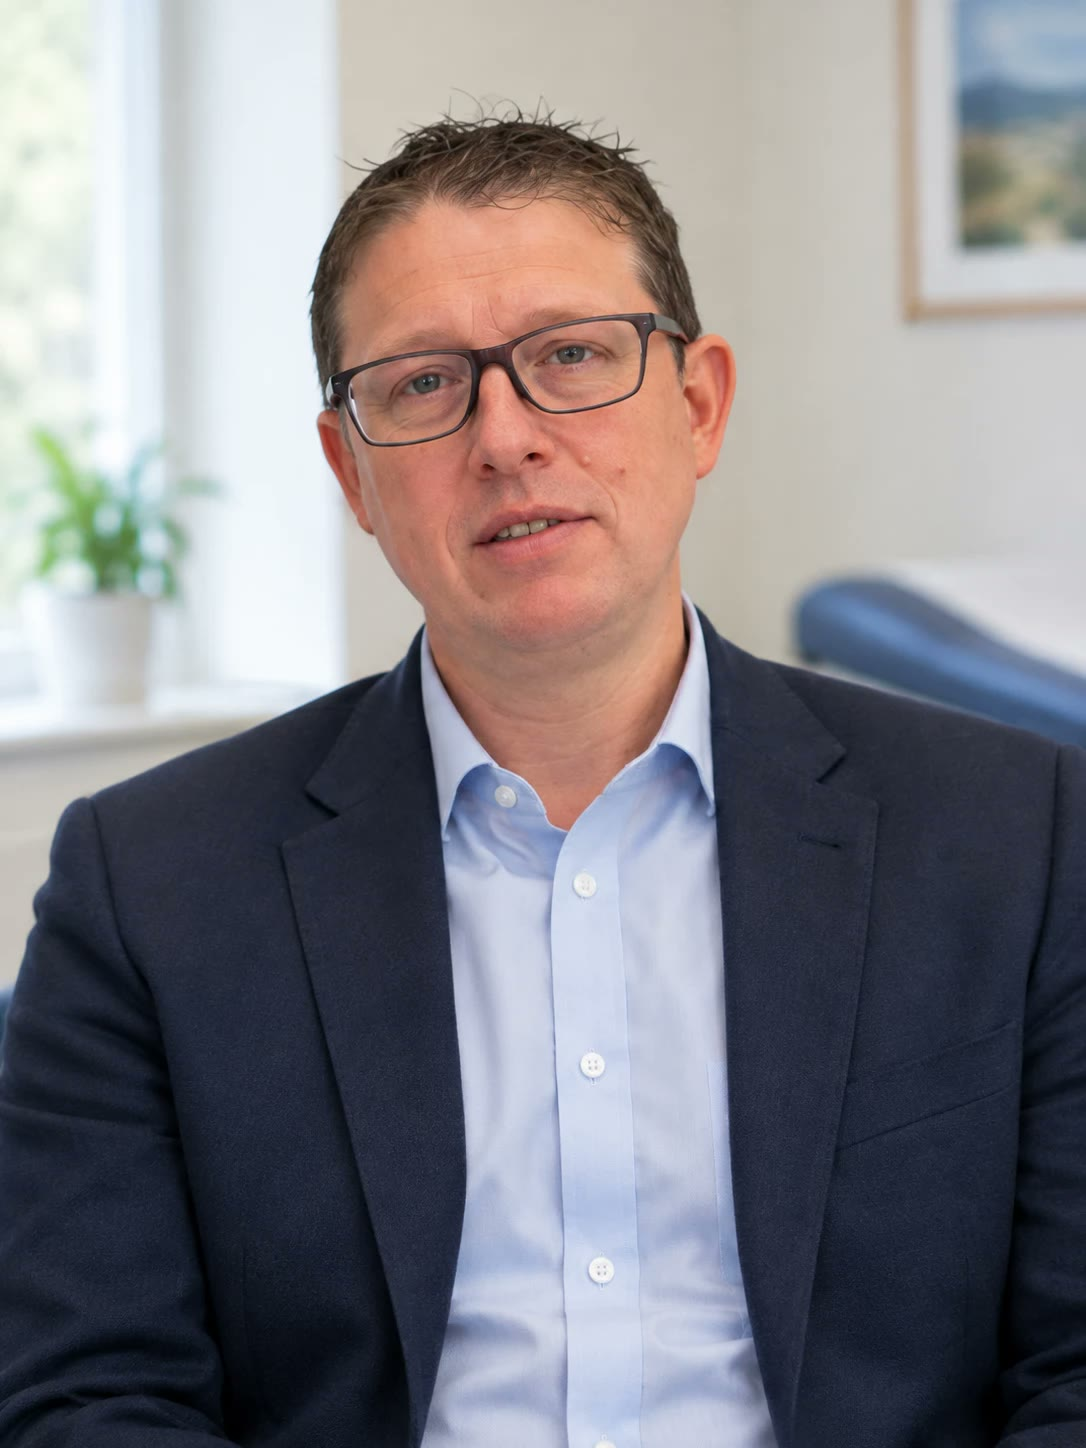
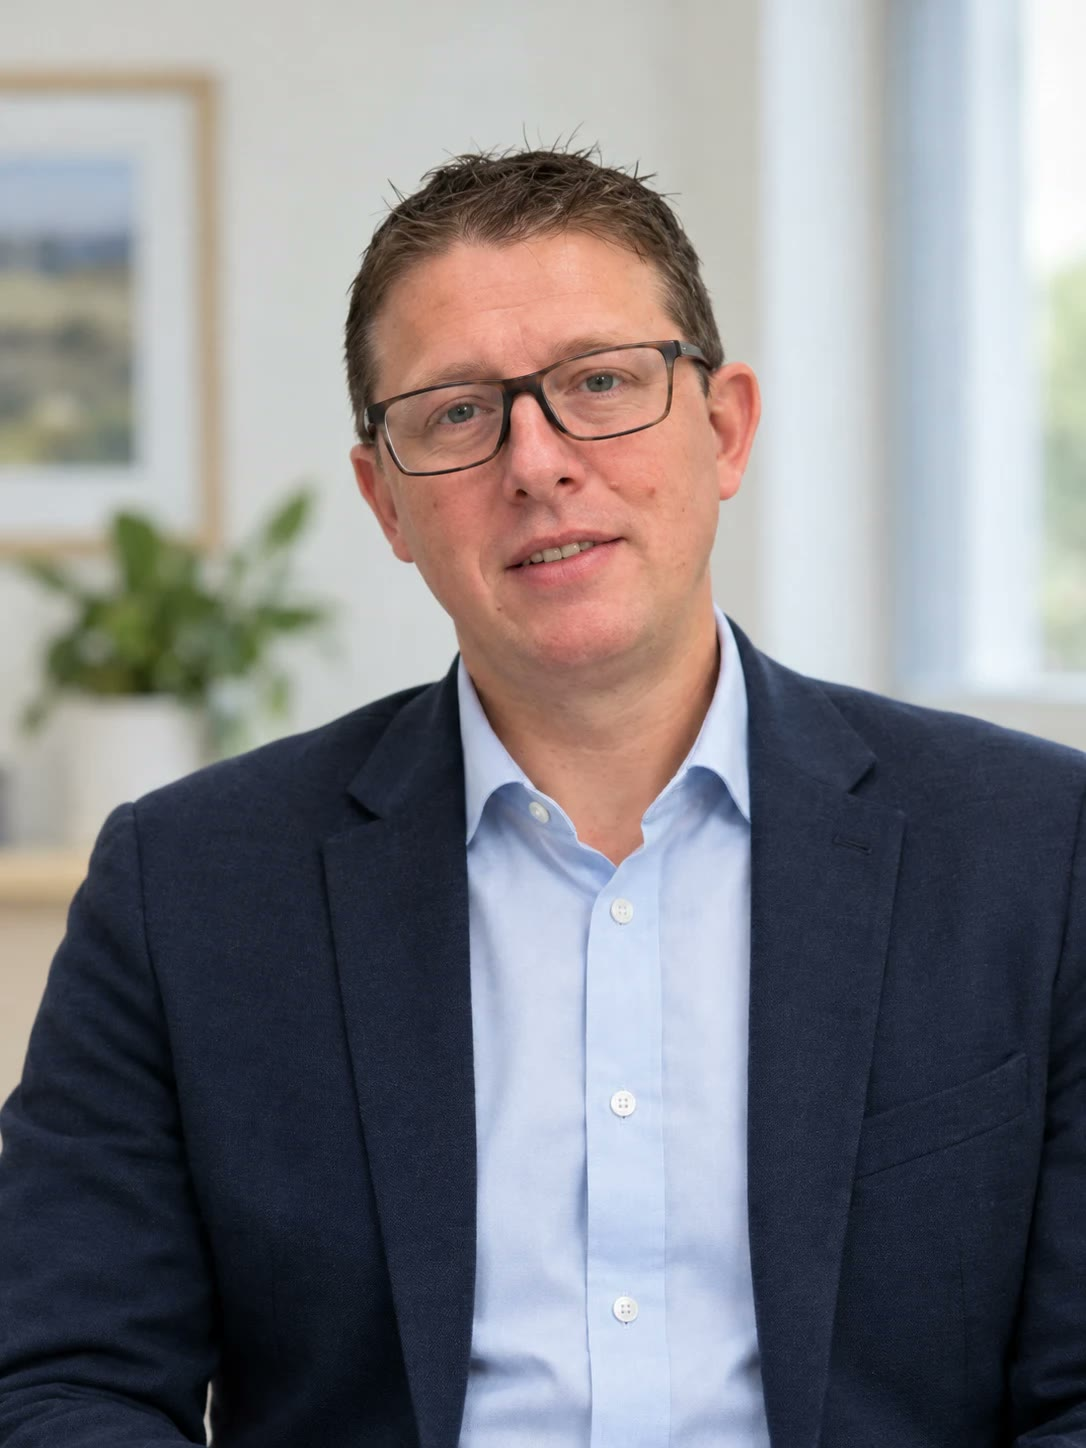
v1 preview: smiling photo of Dr Motherwell

diff --git a/index.html b/index.html
@@ -1066,8 +1066,8 @@
       <div class="rv" data-parallax>
         <div class="photo">
           <picture>
-            <source type="image/webp" srcset="img/doctor-600.webp 600w, img/doctor-1086.webp 1086w" sizes="(max-width:880px) 92vw, 440px">
-            <img src="img/doctor-1086.jpg" alt="Dr Duncan Motherwell in his consulting room" width="1086" height="1448" loading="lazy" decoding="async" style="object-position:50% 30%">
+            <source type="image/webp" srcset="img/doctor-600.webp?v=2 600w, img/doctor-1086.webp?v=2 1086w" sizes="(max-width:880px) 92vw, 440px">
+            <img src="img/doctor-1086.jpg?v=2" alt="Dr Duncan Motherwell in his consulting room" width="1086" height="1448" loading="lazy" decoding="async" style="object-position:50% 30%">
           </picture>
         </div>
       </div>
